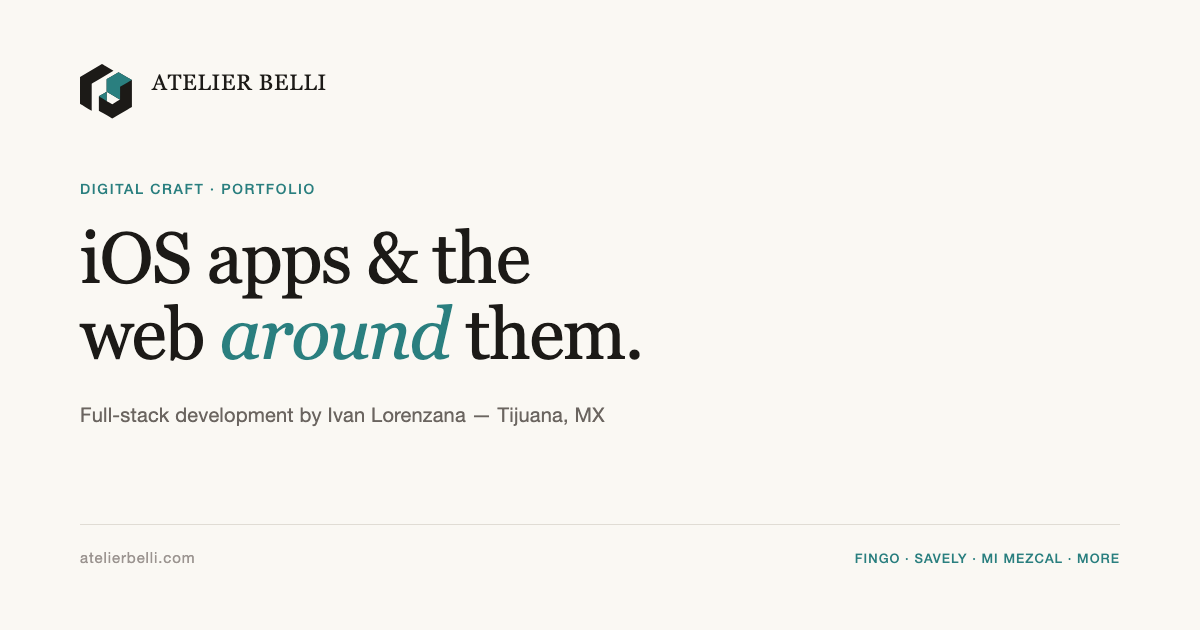
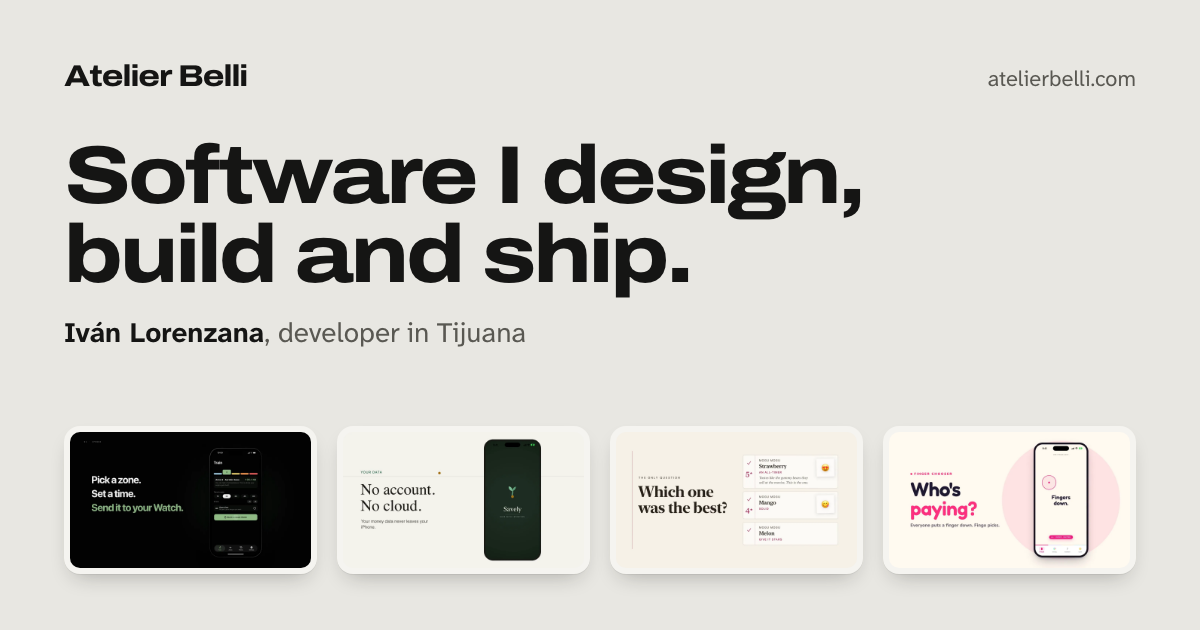
feat: render share images in the objects identity
public/og.png still carried the retired brand (turquoise serif, "DIGITAL
CRAFT", a mezcal reference) on every shared link. Both cards are now
rendered from HTML with Playwright (pnpm og:render): the site's card and
a Jugo card in the app's own voice. The script fails if a font or an
image does not load, so a fallback face never gets baked in.

diff --git a/scripts/og/home.html b/scripts/og/home.html
@@ -1,0 +1,39 @@
+<!doctype html>
+<!-- Share card for atelierbelli.com (public/og.png). Render with `pnpm og:render`.
+     Objects identity: warm grey ground, raised tiles, Archivo wide for display,
+     Atkinson Hyperlegible Next for text. Amber is reserved for interaction on the
+     site, so a static card carries none. Posters are the real launch-film frames. -->
+<html lang="en">
+<head>
+<meta charset="utf-8">
+<link rel="stylesheet" href="https://fonts.googleapis.com/css2?family=Archivo:wdth,wght@62..125,100..900&family=Atkinson+Hyperlegible+Next:wght@400;600;700&display=block">
+<style>
+  :root { --bg: #e8e7e2; --raised: #f5f4f0; --fg: #151514; --mu: #595852;
+          --e2: 0 1px 0 rgba(21,21,20,.05), 0 10px 22px -10px rgba(21,21,20,.32); }
+  * { box-sizing: border-box; margin: 0; }
+  html, body { width: 1200px; height: 630px; overflow: hidden; background: var(--bg); color: var(--fg); }
+  body { padding: 60px 64px 0; font-family: "Atkinson Hyperlegible Next", sans-serif; -webkit-font-smoothing: antialiased; }
+  .disp { font-family: "Archivo", sans-serif; font-variation-settings: "wdth" 118; font-weight: 760; letter-spacing: -0.035em; }
+  .top { display: flex; justify-content: space-between; align-items: baseline; }
+  .brand { font-size: 30px; }
+  .url { font-size: 22px; color: var(--mu); }
+  h1 { margin-top: 44px; font-size: 82px; line-height: 0.96; }
+  .sub { margin-top: 20px; font-size: 28px; color: var(--mu); }
+  .sub b { color: var(--fg); font-weight: 700; }
+  .shelf { position: absolute; left: 64px; right: 64px; bottom: 56px; display: grid; grid-template-columns: repeat(4, 1fr); gap: 20px; }
+  .tile { background: var(--raised); border-radius: 16px; padding: 6px; box-shadow: var(--e2); }
+  .tile img { display: block; width: 100%; aspect-ratio: 16 / 9; object-fit: cover; border-radius: 10px; }
+</style>
+</head>
+<body>
+  <div class="top"><span class="brand disp">Atelier Belli</span><span class="url">atelierbelli.com</span></div>
+  <h1 class="disp">Software I design,<br>build and ship.</h1>
+  <p class="sub"><b>Iván Lorenzana</b>, developer in Tijuana</p>
+  <div class="shelf">
+    <div class="tile"><img src="../../public/cases/film/alisio-poster.webp" alt=""></div>
+    <div class="tile"><img src="../../public/cases/film/savely-poster.webp" alt=""></div>
+    <div class="tile"><img src="../../public/cases/film/fave-poster.webp" alt=""></div>
+    <div class="tile"><img src="../../public/cases/film/fingo-poster.webp" alt=""></div>
+  </div>
+</body>
+</html>

diff --git a/scripts/og/jugo.html b/scripts/og/jugo.html
@@ -1,0 +1,33 @@
+<!doctype html>
+<!-- Share card for /jugo (public/og-jugo.png). Render with `pnpm og:render`.
+     Jugo's own voice (island black, charging green), the same tokens the /jugo
+     page scopes under .ab-jugo. The island is the real capture of the app's alert. -->
+<html lang="en">
+<head>
+<meta charset="utf-8">
+<link rel="stylesheet" href="https://fonts.googleapis.com/css2?family=Archivo:wdth,wght@62..125,100..900&family=Atkinson+Hyperlegible+Next:wght@400;600;700&display=block">
+<style>
+  :root { --bg: #0b0d0c; --fg: #eef1ee; --mu: #9aa39c; --juice: #34d35b; }
+  * { box-sizing: border-box; margin: 0; }
+  html, body { width: 1200px; height: 630px; overflow: hidden; background: var(--bg); color: var(--fg); }
+  body { font-family: "Atkinson Hyperlegible Next", sans-serif; -webkit-font-smoothing: antialiased; }
+  /* The capture fades into the ground so there is no seam where it ends. */
+  .island { display: block; width: 1200px; height: 340px; -webkit-mask-image: linear-gradient(to bottom, #000 62%, transparent); mask-image: linear-gradient(to bottom, #000 62%, transparent); }
+  .copy { padding: 34px 64px 0; }
+  .disp { font-family: "Archivo", sans-serif; font-variation-settings: "wdth" 118; font-weight: 760; letter-spacing: -0.035em; }
+  h1 { font-size: 64px; line-height: 1; }
+  h1 span { color: var(--juice); }
+  .sub { margin-top: 18px; font-size: 28px; color: var(--mu); }
+  .foot { position: absolute; left: 64px; right: 64px; bottom: 44px; display: flex; justify-content: space-between; font-size: 22px; color: var(--mu); }
+  .foot .brand { font-size: 22px; color: var(--fg); }
+</style>
+</head>
+<body>
+  <img class="island" src="../../public/cases/jugo-island.webp" alt="">
+  <div class="copy">
+    <h1 class="disp">Your battery, <span>no surprises.</span></h1>
+    <p class="sub">Battery alerts that grow out of your Mac's notch. Free for macOS.</p>
+  </div>
+  <div class="foot"><span class="brand disp">Jugo</span><span>atelierbelli.com/jugo</span></div>
+</body>
+</html>
